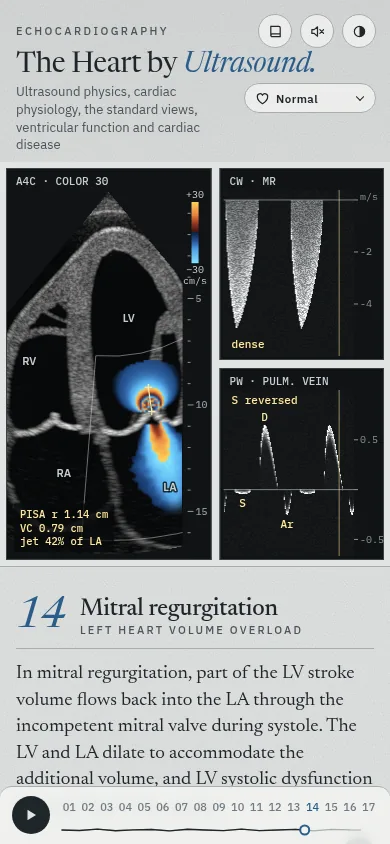
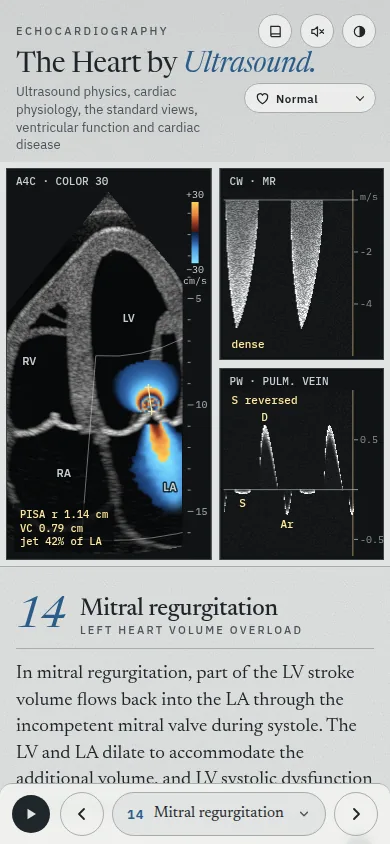
Phone bar: README checks, phone screenshots with the bar
Claude-Session: https://claude.ai/code/session_01NtQNVy8YQ5NUAw3xwF3MnN

diff --git a/README.md b/README.md
@@ -42,7 +42,7 @@ On a phone the figure sits above the text and stays in view while the text scrol
 
 ![Phone, chapter 07](docs/screenshots/phone-planes.webp) ![Phone, chapter 14](docs/screenshots/phone-mr.webp)
 
-On a phone the bar at the bottom holds the Play button for the tour, back and next buttons, and the current chapter's number and title. A tap on the title opens the list of all chapters, by part. Each of these targets is at least 44 px. A title that needs more than two lines takes its short name, as on the desktop bar (TR at 320 px). Wider screens keep the row of chapter numbers.
+On a phone the bar at the bottom holds the Play button for the tour, back and next buttons, and the current chapter's number and title. A tap on the title opens the list of all chapters, by part. Each of these targets is at least 44 px. A title that needs more than two lines takes its short name, as on the desktop bar (TR, AR and Amyloid at 320 px). Wider screens keep the row of chapter numbers.
 
 ## The heart shown
 
@@ -296,6 +296,8 @@ node tools/render-video.mjs --reel --stills=7,42.5             # PNG stills at t
 
 ## Checks run before this commit
 
+- Phone bar, in a browser with touch at 390 × 844: 26 checks pass. Back, the chapter title and next are at least 44 px. Back stops at 01 and next at 17. The list holds 17 rows of at least 44 px, by part, marks the current chapter and scrolls it into view. A tap on a row opens that chapter and closes the list. Escape and a tap outside the list close it and keep the chapter. At 360 and 390 px every title fits in two lines; at 320 px TR, AR and Amyloid take their short names. At 1440 × 900 the row of numbers stays, the phone bar is hidden and a click on 10 opens Fill. No page errors.
+- Phone bar layout at the 14 test sizes (320 × 640 to 1920 × 1080), 24 states each: chapter 01; nine states of 07; 10, 15 and 17 at three grades each; the PISA view of 15; the heart note; the two header dialogs; and the list of chapters. No overlapping or clipped text, no sideways scroll, no page errors.
 - PISA: chapter 04 gains the section *Flow through an orifice* (flow rate = area × velocity; the continuity equation; the PISA method) with links to chapters 03, 11, 14 and 15. Chapter 14 gains the four steps that its figure follows and a worked example: an EROA of 0.40 cm² at 5.0 m/s is 200 mL/s, a radius of 1.03 cm at 30 cm/s and 60 mL (arithmetic checked). Text checked against Zoghbi 2017. In a browser at 1440 × 900 and 390 × 844, each link opens its chapter; no page errors, no sideways scroll. Layout audit of chapters 04 and 14 at 320, 390, 768 and 1440 px: no findings.
 - Chapter 10 Fill: the 2025 ASE algorithm as a diagram in the text, with ▲▼ buttons on its nine measurements, and its path in the figure. A browser test passes 115 checks at 1440 × 900 and 111 each at 390 × 844 and 320 × 640. Each button moves its value one step and stops at its limits. The diagram, the readouts, the live sentence and the figure follow each edit, and the clicked button stays under the pointer. After an edit the slider lies in a band of the new result, and the values stay as edited. A move or drag of the slider, Play, the tour, Reset and a heart chosen on another chapter clear the edits. From the start, the buttons reach all five outcomes. An IVRT change leaves the result, and the change line says why. The flash goes after 1.4 s, and reduced motion shows none. Layout audit at the 14 sizes, nine states each (the start, the middle of each of the six bands, two edited states), and in the dark theme at 390 × 844 and 1440 × 900: no findings. The chapter video page for 10 steps through its four holds with no page error.
 - Chapter 07 in three panes. Against PR #20 (`8b449ca`): `src/gl/stage3d.js` is again the file of PR #19 (`5a06820`); `src/ch/windows.js` draws the planes, or Probe and body, in the left pane and the cross-section in the middle; `src/echo.js` takes the short names of PR #19; the video code changes only in comments. No video was rendered again.
